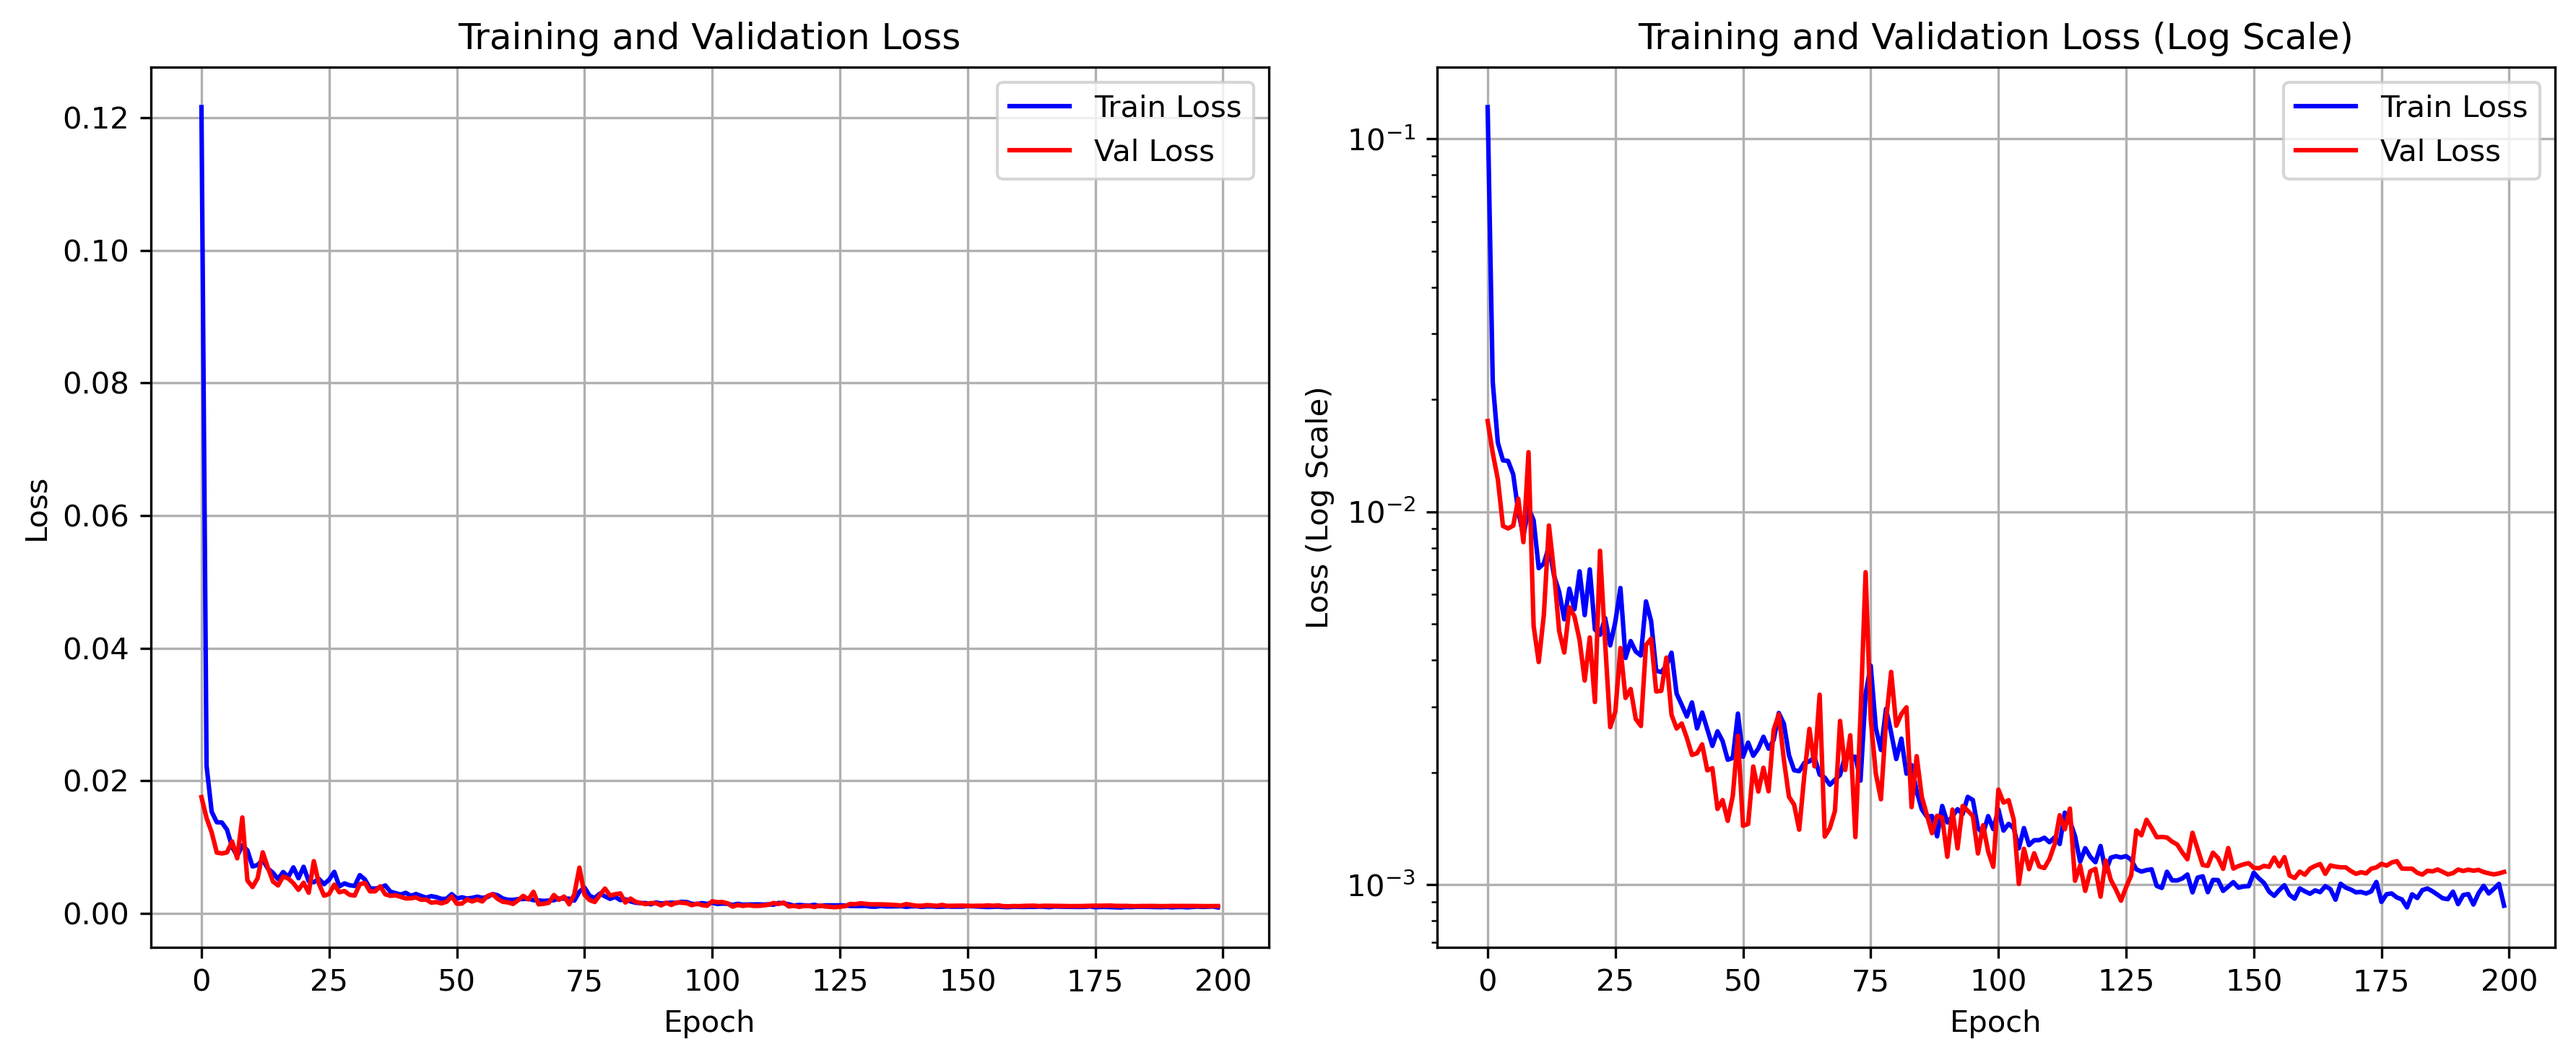
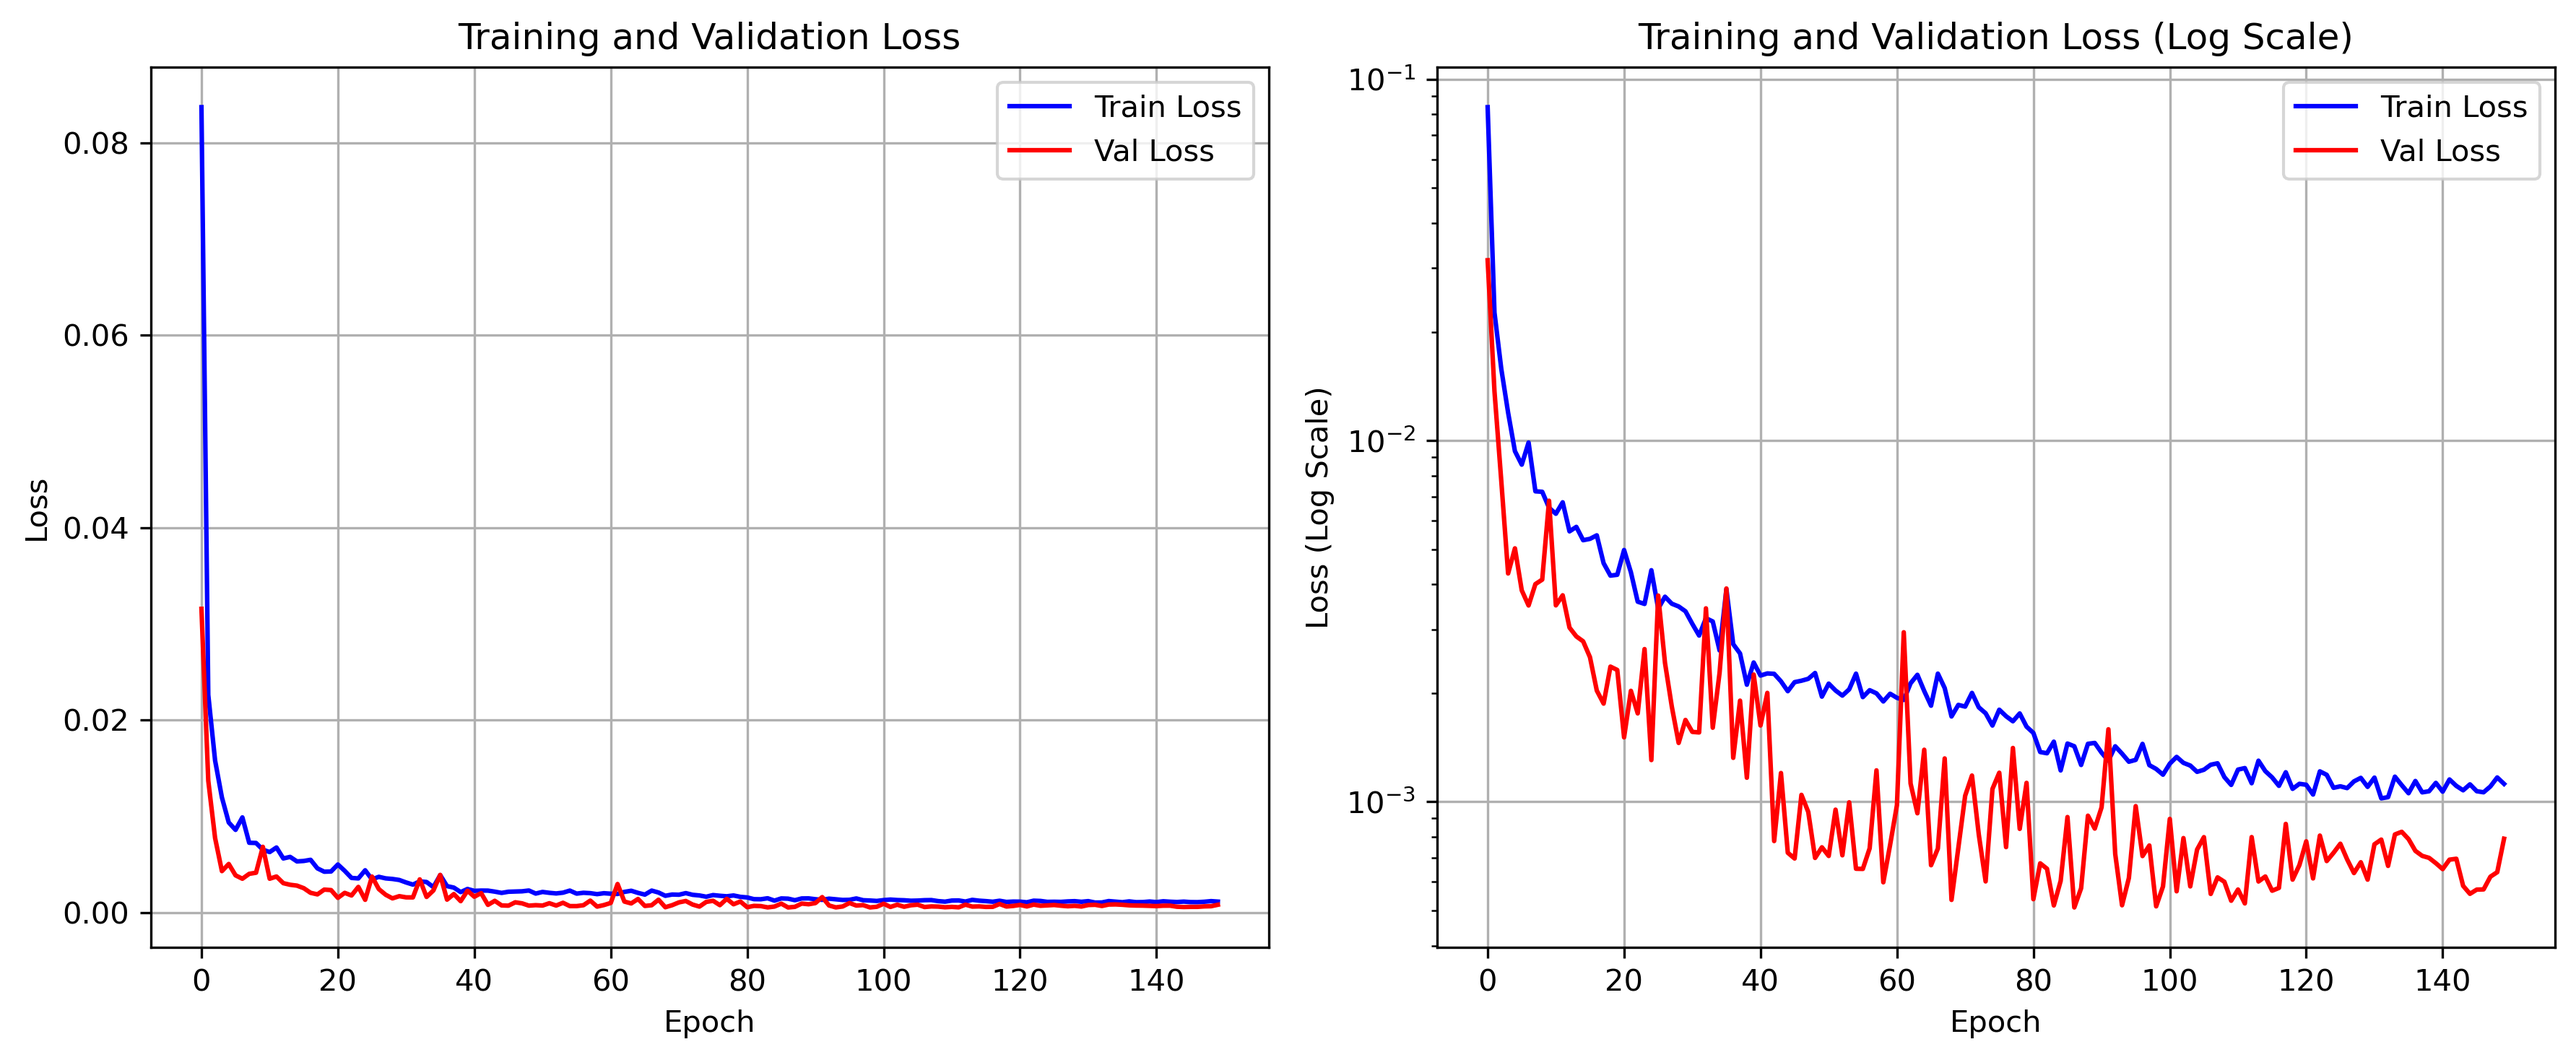
修改数据处理问题，去除训练随机性

diff --git a/train.py b/train.py
@@ -1,13 +1,35 @@
 import torch
 import torch.nn as nn
 import numpy as np
+import random
+import os
 import logging
 import matplotlib.pyplot as plt
-from torch.utils.data import  DataLoader
+from torch.utils.data import DataLoader
 from sklearn.model_selection import train_test_split
 from data import load_efficiency_data
 from data import DetectorDataset
 from model import DetectorEfficiencyTransformer
+
+
+def setup_seed(seed=42):
+    random.seed(seed)
+    os.environ['PYTHONHASHSEED'] = str(seed)
+    np.random.seed(seed)
+    torch.manual_seed(seed)
+    torch.cuda.manual_seed(seed)
+    torch.cuda.manual_seed_all(seed)
+    
+    # 保证 CUDA 算法的确定性
+    torch.backends.cudnn.deterministic = True
+    torch.backends.cudnn.benchmark = False
+
+
+def seed_worker(worker_id):
+    """DataLoader 的 worker 初始化函数"""
+    worker_seed = torch.initial_seed() % 2**32
+    np.random.seed(worker_seed)
+    random.seed(worker_seed)
 
 
 def setup_logger():
@@ -101,8 +123,12 @@ def evaluate(model, dataloader, criterion, device):
 
 
 def main():
-    torch.manual_seed(42)
-    np.random.seed(42)
+    # 设置全局随机种子
+    setup_seed(42)
+    
+    # 创建一个 Generator 用于 DataLoader
+    g = torch.Generator()
+    g.manual_seed(42)
     
     logger = setup_logger()
     
@@ -129,13 +155,32 @@ def main():
     val_dataset = DetectorDataset(val_data)
     test_dataset = DetectorDataset(test_data_list)
     
-    train_loader = DataLoader(train_dataset, batch_size=32, shuffle=True)
-    val_loader = DataLoader(val_dataset, batch_size=32, shuffle=False)
-    test_loader = DataLoader(test_dataset, batch_size=32, shuffle=False)
+    # 在 DataLoader 中加入 worker_init_fn 和 generator
+    train_loader = DataLoader(
+        train_dataset, 
+        batch_size=32, 
+        shuffle=True,
+        worker_init_fn=seed_worker,
+        generator=g
+    )
+    val_loader = DataLoader(
+        val_dataset, 
+        batch_size=32, 
+        shuffle=False,
+        worker_init_fn=seed_worker,
+        generator=g
+    )
+    test_loader = DataLoader(
+        test_dataset, 
+        batch_size=32, 
+        shuffle=False,
+        worker_init_fn=seed_worker,
+        generator=g
+    )
     
     # 创建模型
     model = DetectorEfficiencyTransformer(
-        d_model=128,
+        d_model=64,
         nhead=8,
         num_layers=4,
         dim_feedforward=512,
@@ -152,7 +197,7 @@ def main():
     )
     
     # 训练循环
-    num_epochs = 200
+    num_epochs = 150
     best_val_mae = float('inf')
     train_losses = []
     val_losses = []

diff --git a/data.py b/data.py
@@ -66,7 +66,7 @@ def process_efficiency_data(filepath):
                 if any(positions >= 61):
                     continue
                 datas.append({"pos_feature": positions, "momentum": momentum,
-                             "label": values[binX-1, binY-1, binZ-1]})
+                             "label": values[binX-1, binY, binZ-1]})
     return datas
 
 
